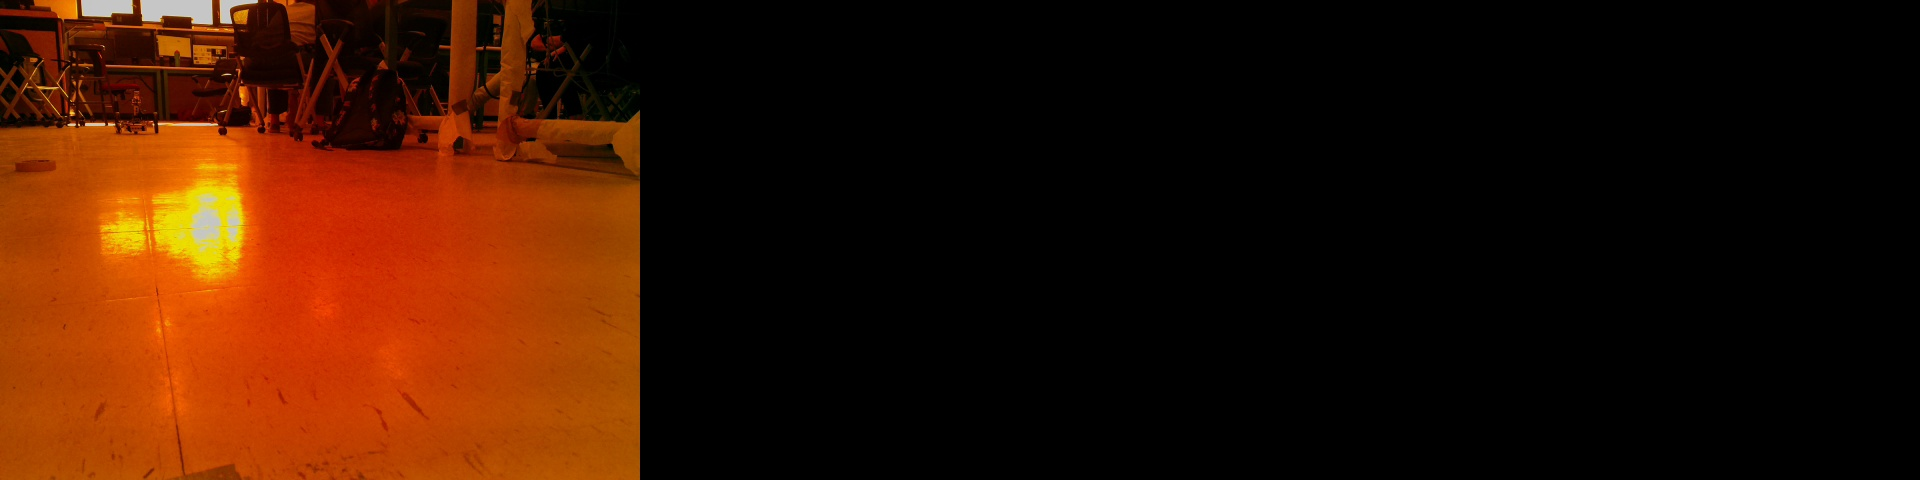
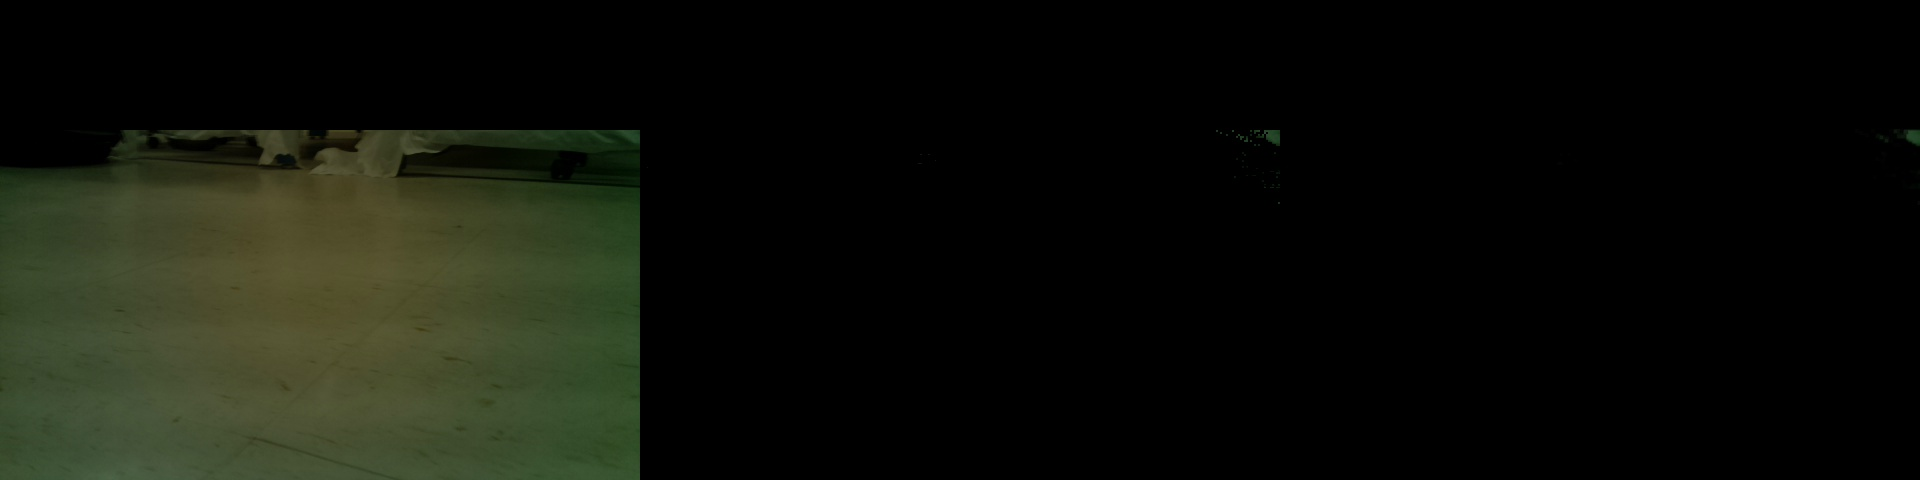
made some adjustments to the code

diff --git a/Demo 2/PiCode/CombinedCode.py b/Demo 2/PiCode/CombinedCode.py
@@ -119,30 +119,55 @@ time.sleep(2)
     
 camera.shutter_speed = camera.exposure_speed
 camera.exposure_mode = 'off'
-g = camera.awb_gains
-print(float(g[0]), float(g[1]))
 camera.awb_mode = 'off'
-camera.awb_gains = g
+#time.sleep(3)
+camera.awb_gains = (1.5, 1.2)
+time.sleep(3)
+print(float(camera.awb_gains[0]), float(camera.awb_gains[1]))
 
-##camera.stop_preview()
-##take 4 calibration pictures
-##awbRed = [0, 0, 0, 0]
-##awbBlue = [0, 0, 0, 0]
-##for i in range(4):
-##    camera.capture('calibrationPic%d.jpg' %i)
-##    print(camera.awb_gains)
-##    (awbRed[i], awbBlue[i]) = camera.awb_gains
-##    time.sleep(0.5)
-##camera.awb_mode = 'fluorescent'
-#    
-##averaging and setting the AWB values
-##camera.stop_preview()
-##avgRedAwb = sum(awbRed)/len(awbRed)
-##avgBlueAwb = sum(awbBlue)/len(awbBlue)
-##avgAwb = (avgRedAwb, avgBlueAwb)
-##camera.awb_mode = 'off'
-##camera.awb_gains = avgAwb
+#camera.capture('calibrate.jpg')
+#img = cv.imread('calibrate.jpg')
+##img = cv.resize(img, None, fx=0.5, fy=0.5, interpolation = cv.INTER_LINEAR)
+#img2 = cv.cvtColor(img, cv.COLOR_BGR2HSV)
+#cv.namedWindow('yellow')
+#cv.createTrackbar('H lower', 'yellow', 20, 255, nothing)
+#cv.createTrackbar('H upper', 'yellow', 54, 255, nothing)
+#cv.createTrackbar('S lower', 'yellow', 154, 255, nothing)
+#cv.createTrackbar('S upper', 'yellow', 253, 255, nothing)
+#cv.createTrackbar('V lower', 'yellow', 137, 255, nothing)
+#cv.createTrackbar('V upper', 'yellow', 256, 255, nothing)
 #
+#    #loop for trackbars, escape key breaks loop and moves on
+#while(1):
+#        #just in case
+#    try:
+#        cv.imshow('yellow', imgOut)
+#    except:
+#        pass
+#        
+#        #reading trackbar values
+#    hUp = cv.getTrackbarPos('H upper', 'yellow')
+#    hLow = cv.getTrackbarPos('H lower', 'yellow')
+#    sUp = cv.getTrackbarPos('S upper', 'yellow')
+#    sLow = cv.getTrackbarPos('S lower', 'yellow')
+#    vUp = cv.getTrackbarPos('V upper', 'yellow')
+#    vLow = cv.getTrackbarPos('V lower', 'yellow')
+#
+#        #setting color recognition boundaries from trackbars
+#    lowerBound = (hLow, sLow, vLow)
+#    upperBound = (hUp, sUp, vUp)
+#        #creating mask based on bounds
+#    mask = cv.inRange(img2, lowerBound, upperBound)
+#        #and mask with og image to isolate color range selected
+#    imgOut = cv.bitwise_and(img, img, mask = mask)
+#        #cv.imwrite('imgYout.jpg', imgYout)
+#    
+#    k = cv.waitKey(1) & 0xFF
+#    if k == 27:
+#        break
+#    
+#cv.destroyAllWindows()
+
 distanceList = []
 distance = []
 angle = []
@@ -156,21 +181,21 @@ while(1):
     img = img.reshape((height, width, 3))
     
     #set top couple rows of pixels to black to avoid picking up anything not the floor
-    #img[0:200, 0:img.shape[1]] = (0, 0, 0)
+    img[0:130, 0:img.shape[1]] = (0, 0, 0)
     #cv.imwrite('croptest.jpg', img)
     #print('took pic')
     
     img2 = cv.cvtColor(img, cv.COLOR_BGR2HSV)
     
     #HSV bounds to isolate blue tape
-    lowerBound = (95, 100, 70)
+    lowerBound = (60, 20, 20)
     upperBound = (120, 255, 255)
     mask = cv.inRange(img2, lowerBound, upperBound)
     imgOut = cv.bitwise_and(img, img, mask = mask)
     
     #img filtering
     blur = cv.GaussianBlur(imgOut, (3,3), 0)
-    kernel = np.ones((6,6), np.uint8)
+    kernel = np.ones((3,3), np.uint8)
     opening = cv.morphologyEx(blur, cv.MORPH_OPEN, kernel)
     closing = cv.morphologyEx(opening, cv.MORPH_CLOSE, kernel)
     
@@ -287,57 +312,58 @@ while(1):
         ang = decode(readLS)
 
         print(ang)
-#        if ang >= 10:
-#           stage = 2
-#           
-#        else:
-#            angle.append(ang)
-#
-#    #Turn to tape and go forward
-#    if stage == 2:
-#        min = 300
-#        i = 0
-#        ind = 0
-#        for d in distance[1:len(distance)]:
-#           i = i + 1
-#           if d < min:
-#               min = d
-#               ind = i
-#        print(distance)
-#        print(angle)
-#        #print(distance[ind])
-#        #print(angle[ind])
-#        buildPackage(distance[ind],angle[ind],3)
-#        time.sleep(10)
-#        stage = -1
-#       
-#    #Begin feedback cycle between camera and arduino
-#
-#    if stage == 3:
-#        #buildPackage(distance[ind],angle[ind],2)
-#        print("here")
-#        
-#    if stage == 69:
-#        buildPackage(distance[ind],angle[ind],2)
-#        stage = -2
-#        #if distanceToTape != nan:
-#            
-#    if stage == 3:
-#       #Dylan's code here (Wide view providing angle and distance)
-#        #res = (2592, 1936)
-#        #resNp = np.empty((2592 * 1936 * 3,), dtype = np.uint8)
-#        #resTuple = (2592, 1936, 3)
-#        #camera.resolution = res
-#        #camera.framerate = 24
-#       #End Dylan's code
-#        #if dist == nan:
-#        #  stage = 4
-#        #else:
-#        buildPackage(distanceToTape,angleX,2)
-#
-#        #print("here")
-#    #Continue when tape becomes not visable (~1ft)
-#    if stage == 5:
-#       buildPackage(0,0,3)
-#
-#    
+        if ang >= 10:
+           stage = 2
+           
+        else:
+            angle.append(ang)
+
+    #Turn to tape and go forward
+    if stage == 2:
+        min = 300
+        i = 0
+        ind = 0
+        for d in distance[1:len(distance)]:
+           i = i + 1
+           if d < min:
+               min = d
+               ind = i
+        print(distance)
+        print(angle)
+        #print(distance[ind])
+        #print(angle[ind])
+        buildPackage(distance[ind],angle[ind],3)
+        time.sleep(10)
+        stage = -1
+       
+    #Begin feedback cycle between camera and arduino
+
+    if stage == 3:
+        #buildPackage(distance[ind],angle[ind],2)
+        print("here")
+        
+    if stage == 69:
+        buildPackage(distance[ind],angle[ind],2)
+        stage = -2
+        #if distanceToTape != nan:
+            
+    if stage == 3:
+       #Dylan's code here (Wide view providing angle and distance)
+        #res = (2592, 1936)
+        #resNp = np.empty((2592 * 1936 * 3,), dtype = np.uint8)
+        #resTuple = (2592, 1936, 3)
+        #camera.resolution = res
+        #camera.framerate = 24
+       #End Dylan's code
+        #if dist == nan:
+        #  stage = 4
+        #else:
+        buildPackage(distanceToTape,angleX,2)
+
+        #print("here")
+    #Continue when tape becomes not visable (~1ft)
+    if stage == 5:
+       buildPackage(0,0,3)
+
+
+

diff --git a/Demo 2/PiCode/PlayCopy.py b/Demo 2/PiCode/PlayCopy.py
@@ -104,7 +104,7 @@ camera.exposure_mode = 'off'
 #print(float(g[0]), float(g[1]))
 camera.awb_mode = 'off'
 #time.sleep(3)
-camera.awb_gains = (3.0, 0.5)
+camera.awb_gains = (1.5, 1.2)
 time.sleep(3)
 print(float(camera.awb_gains[0]), float(camera.awb_gains[1]))
 #camera.awb_gains = g
@@ -120,18 +120,18 @@ while(1):
     img = np.empty((height * width * 3,), dtype=np.uint8)
     camera.capture(img, 'bgr')
     img = img.reshape((height, width, 3))
-    
+    img[0:130, 0:img.shape[1]] = (0, 0, 0)
     img2 = cv.cvtColor(img, cv.COLOR_BGR2HSV)
     
     #HSV bounds to isolate blue tape
-    lowerBound = (95, 100, 70)
+    lowerBound = (60, 20, 20)
     upperBound = (120, 255, 255)
     mask = cv.inRange(img2, lowerBound, upperBound)
     imgOut = cv.bitwise_and(img, img, mask = mask)
     
     #img filtering
     blur = cv.GaussianBlur(imgOut, (3,3), 0)
-    kernel = np.ones((6,6), np.uint8)
+    kernel = np.ones((3,3), np.uint8)
     opening = cv.morphologyEx(blur, cv.MORPH_OPEN, kernel)
     closing = cv.morphologyEx(opening, cv.MORPH_CLOSE, kernel)
     
@@ -195,13 +195,34 @@ while(1):
         if(ang > 10):
             stage = 2
             
+        elif ang > 0:
+            distance.append(distanceToTape)
+            angle.append(ang)
+            
     if stage == 2:
-        buildPackage(30,3.14,3)
+        min = 300
+        i = 0
+        ind = 0
+        for d in distance[1:len(distance)]:
+           i = i + 1
+           if d < min:
+               min = d
+               ind = i
+        print(distance[ind])
+        print(angle[ind])
+        print(distance)
+        print(angle)
+        
+        buildPackage(distance[ind],angle[ind],3)
         stage = 3
     
     if stage == 3:
-        buildPackage(int(distanceToTape),int(angleX),9)
         print("hi")
+        #try:
+            #buildPackage(int(distanceToTape),int(angleX),9)
+        #except ValueError:
+            #print("nan")
+        #print("hi")
         
 
 
